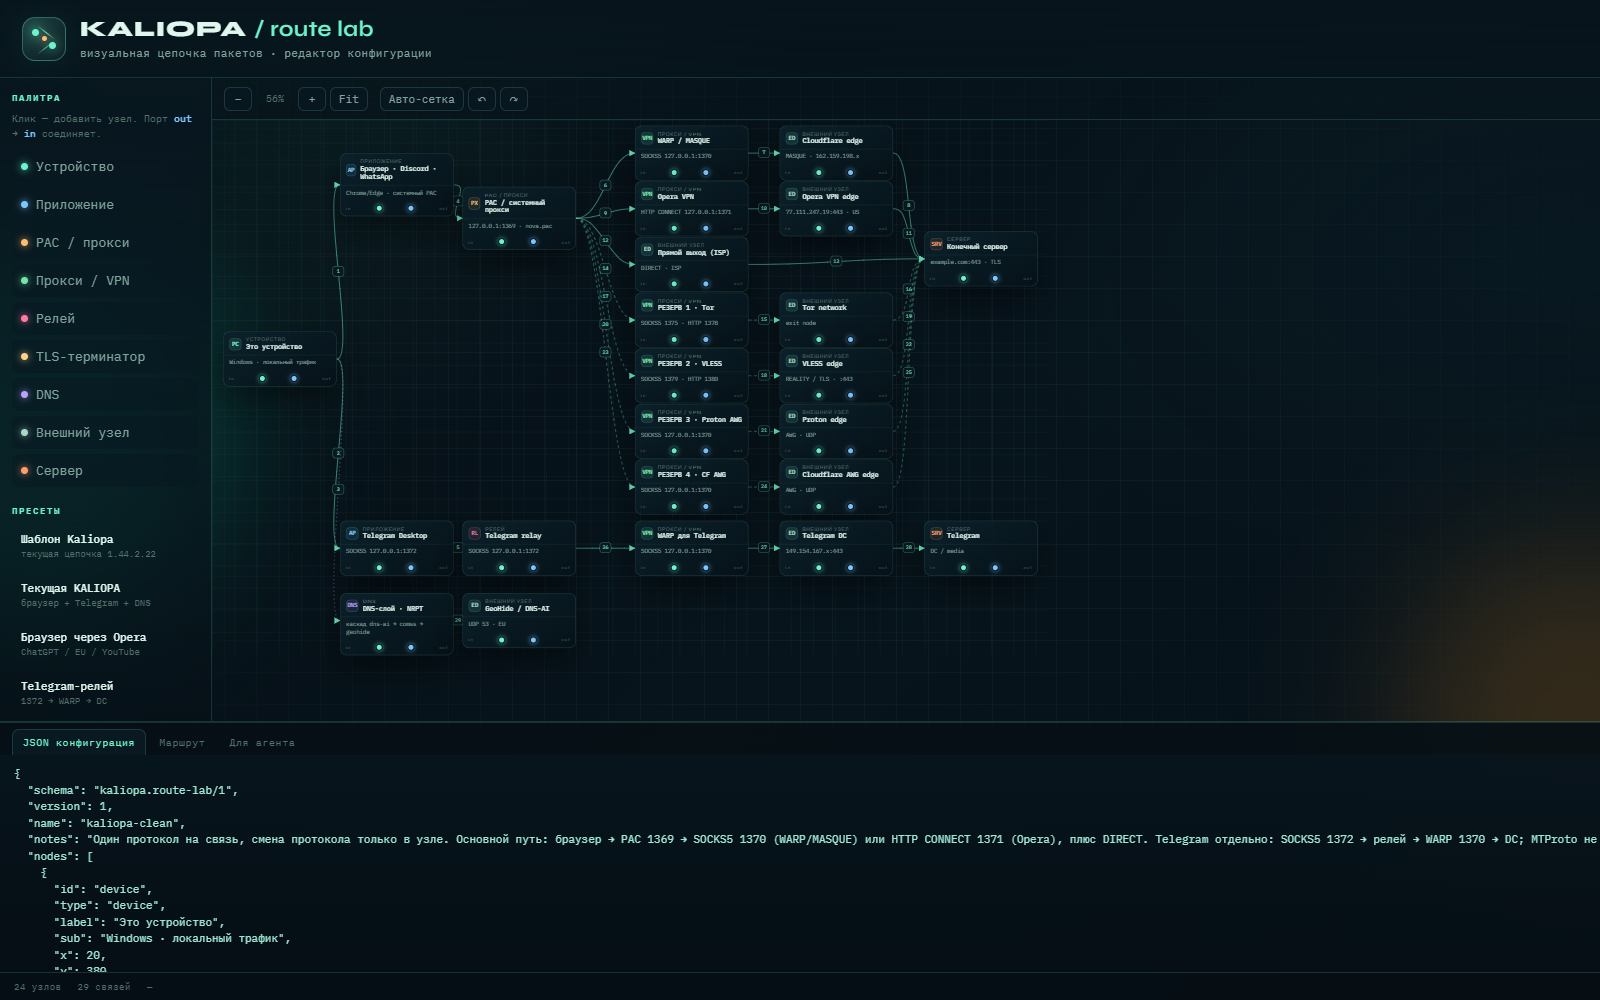
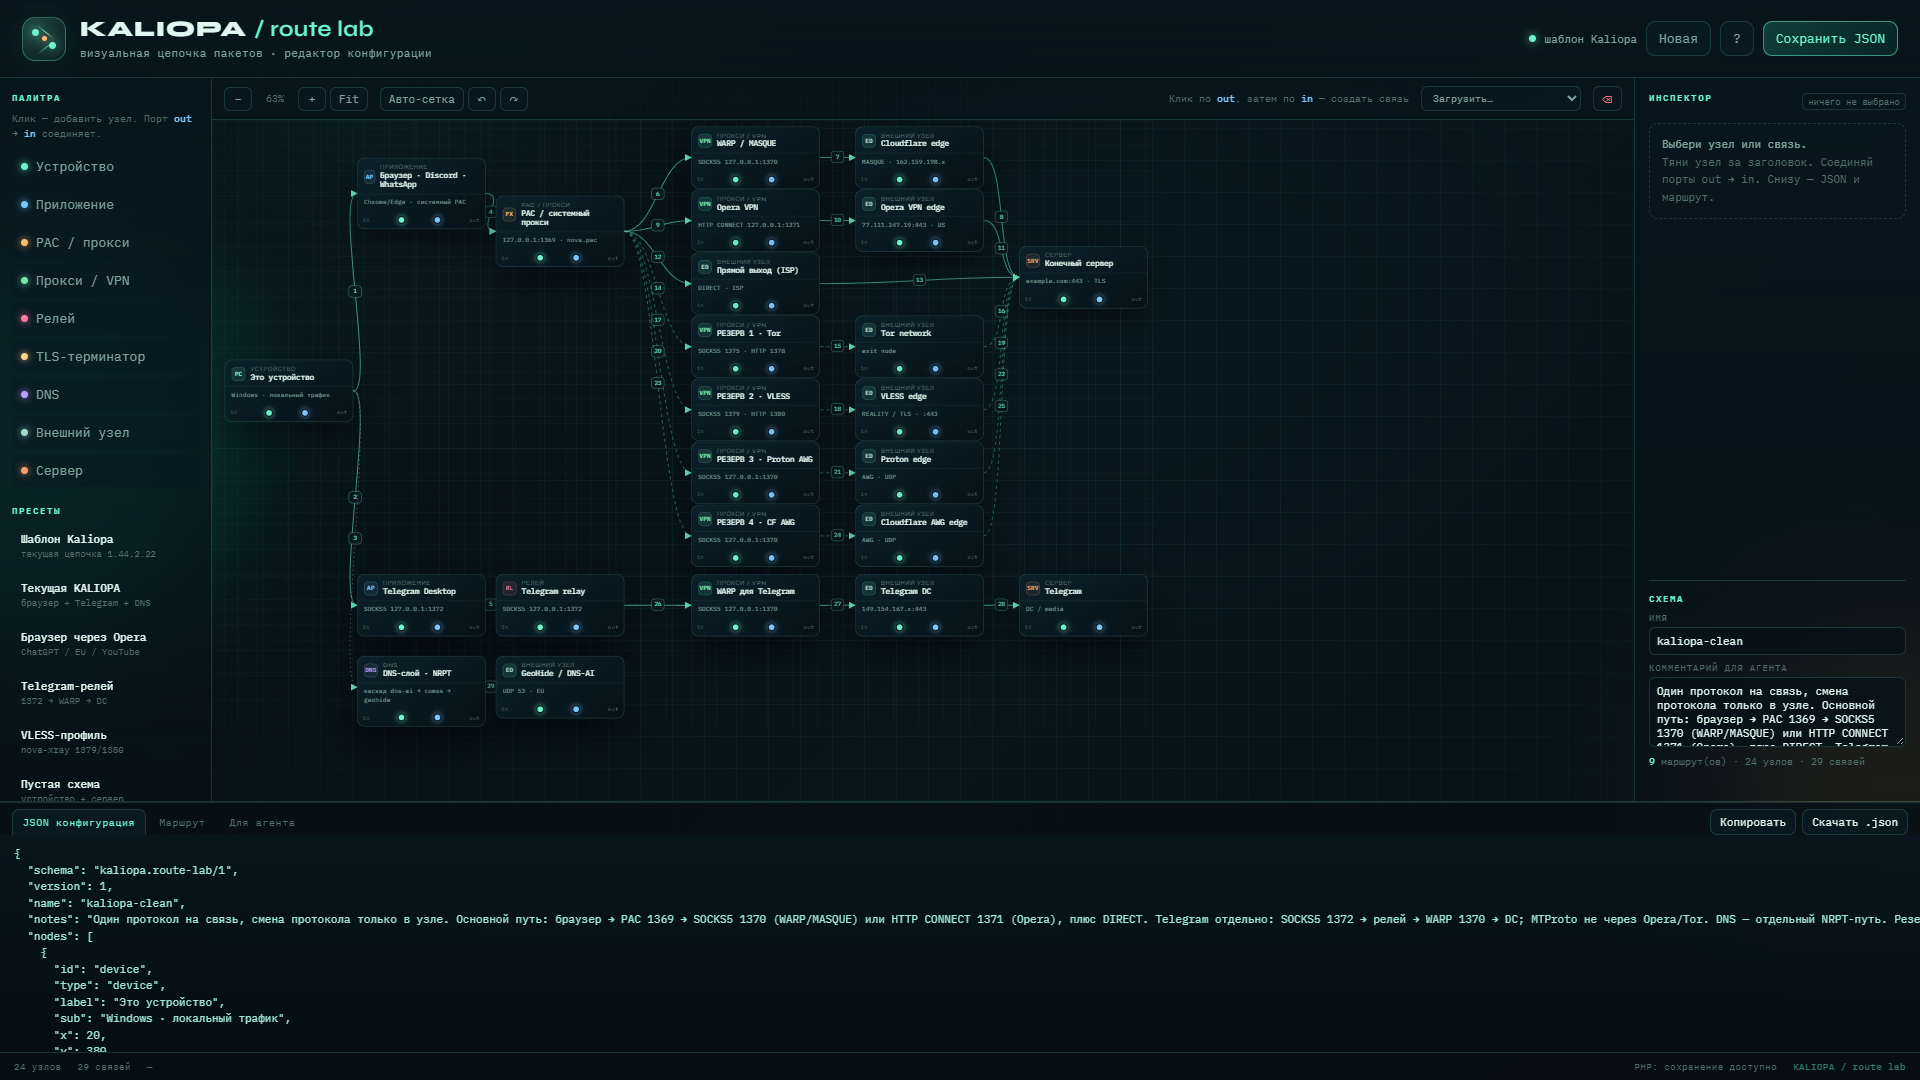
fix(route-editor): keep page within viewport and bust CSS cache

diff --git a/tools/route-editor/assets/app.css b/tools/route-editor/assets/app.css
@@ -26,6 +26,8 @@
 
 html, body {
   height: 100%;
+  width: 100%;
+  max-width: 100vw;
   margin: 0;
   background: var(--ink);
   color: var(--text);
@@ -36,12 +38,16 @@ html, body {
 
 body {
   display: grid;
+  grid-template-columns: minmax(0, 1fr);
   grid-template-rows: 78px minmax(0, 1fr) 250px 28px;
   background:
     radial-gradient(1100px 600px at 12% -10%, rgba(43, 214, 173, .11), transparent 60%),
     radial-gradient(900px 500px at 95% 110%, rgba(255, 189, 107, .07), transparent 55%),
     linear-gradient(135deg, #050d13 0%, #07141c 55%, #061017 100%);
+  overflow: hidden;
 }
+
+body > * { min-width: 0; }
 
 body::before {
   content: "";
@@ -77,6 +83,8 @@ button { cursor: pointer; }
   align-items: center;
   justify-content: space-between;
   gap: 20px;
+  width: 100%;
+  min-width: 0;
   padding: 14px 22px;
   border-bottom: 1px solid var(--line);
   background: linear-gradient(180deg, rgba(7, 20, 28, .95), rgba(7, 20, 28, .72));
@@ -148,6 +156,8 @@ h1 em { font-style: normal; color: var(--mint); font-weight: 600; letter-spacing
   grid-template-columns: 212px minmax(0, 1fr) 286px;
   gap: 0;
   min-height: 0;
+  min-width: 0;
+  width: 100%;
   border-bottom: 1px solid var(--line);
 }
 

diff --git a/tools/route-editor/index.php b/tools/route-editor/index.php
@@ -156,7 +156,7 @@ if (isset($_GET['action']) && $_GET['action'] !== '') {
 <link rel="preconnect" href="https://fonts.googleapis.com">
 <link rel="preconnect" href="https://fonts.gstatic.com" crossorigin>
 <link href="https://fonts.googleapis.com/css2?family=IBM+Plex+Mono:wght@400;500;600&family=Syne:wght@600;700;800&display=swap" rel="stylesheet">
-<link rel="stylesheet" href="assets/app.css">
+<link rel="stylesheet" href="assets/app.css?v=<?= (int)@filemtime(__DIR__ . '/assets/app.css') ?>">
 </head>
 <body>
 <div class="ambient ambient-a"></div>
@@ -310,6 +310,6 @@ if (isset($_GET['action']) && $_GET['action'] !== '') {
   </div>
 </dialog>
 
-<script src="assets/app.js"></script>
+<script src="assets/app.js?v=<?= (int)@filemtime(__DIR__ . '/assets/app.js') ?>"></script>
 </body>
 </html>
